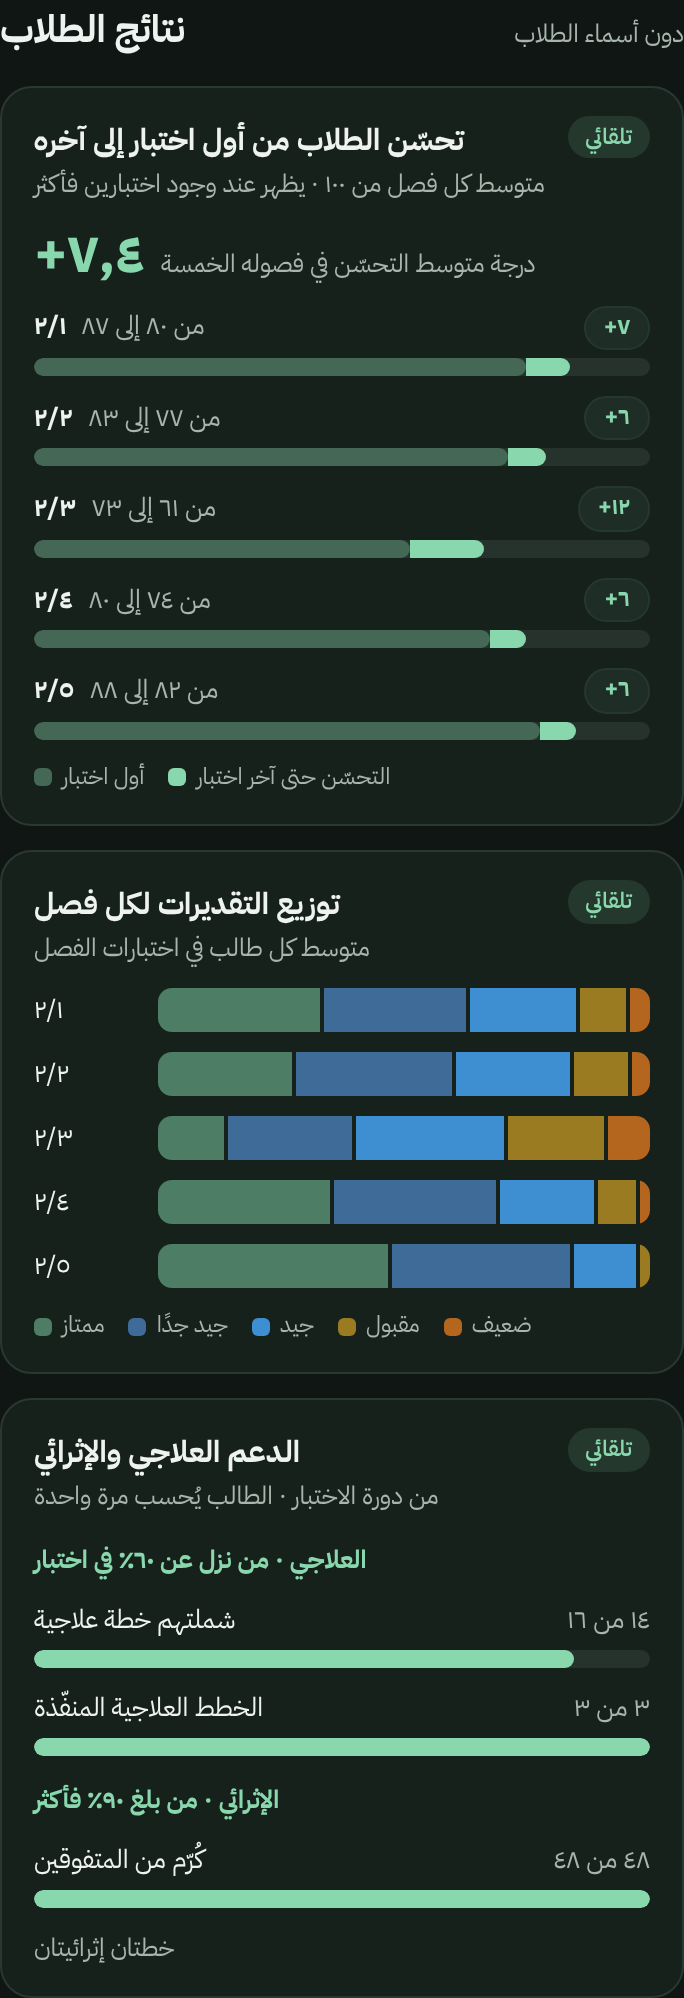
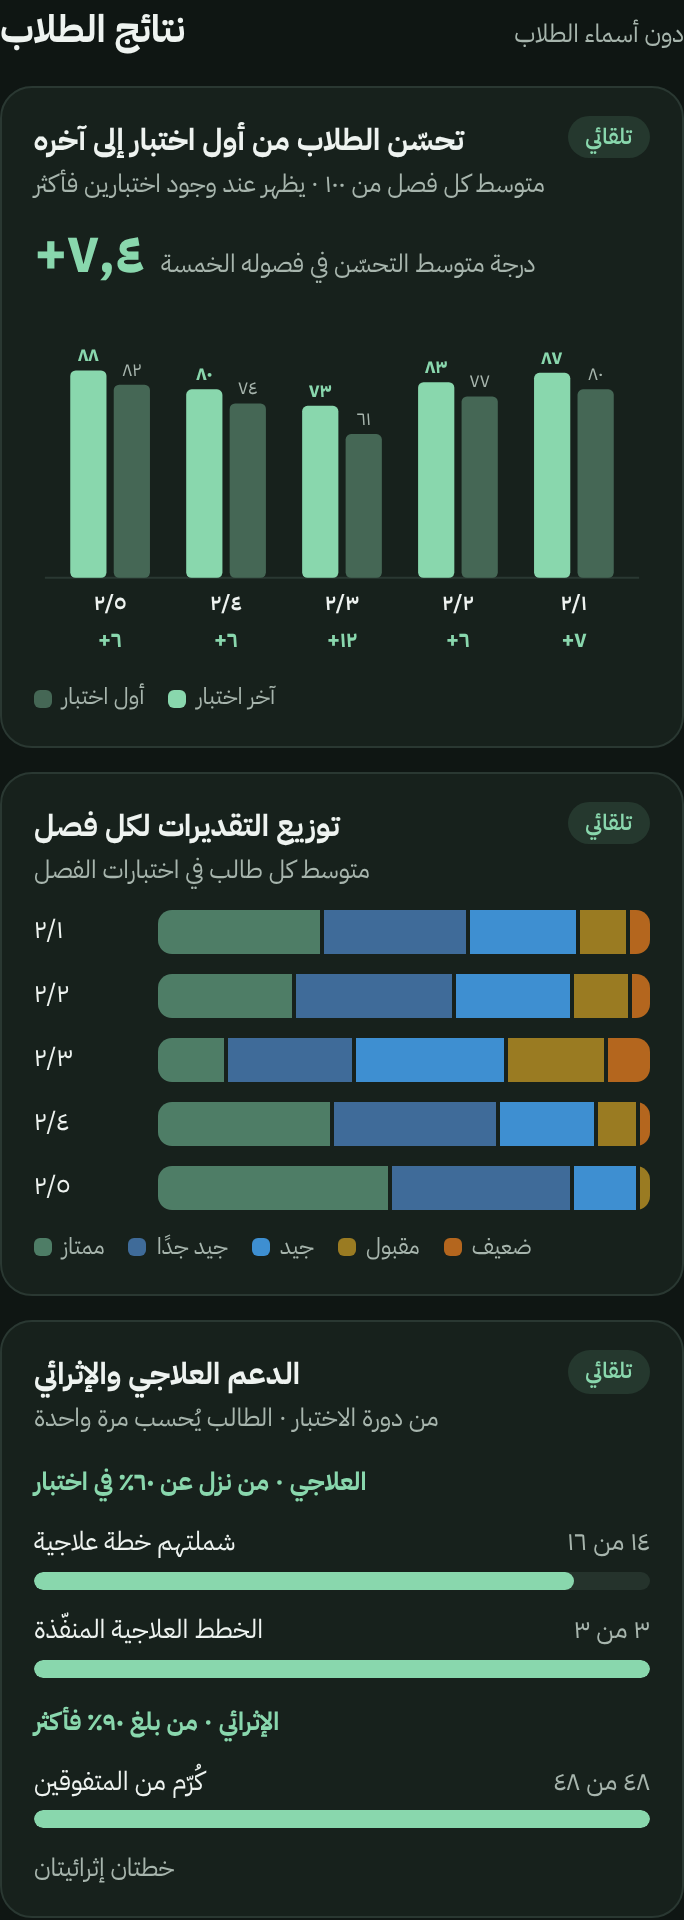
ملف المعلم الرقمي: تحسّن الطلاب بأعمدة متجاورة، وتحديث ملف الانتقال بقرارات قسم النتائج
Claude-Session: https://claude.ai/code/session_01QzqWfYFyUodUKxUMNwYvZ2

diff --git a/docs/teacher-digital-file/prototype.html b/docs/teacher-digital-file/prototype.html
@@ -215,17 +215,14 @@ section.sec { display: grid; gap: 12px; scroll-margin-top: 64px; }
 .chart .link { stroke: var(--mint); stroke-width: 4; stroke-linecap: round; }
 .chart .gain { fill: var(--deep); font-weight: 700; direction: ltr; unicode-bidi: plaintext; }
 
-/* تحسّن الطلاب: رقم إجمالي ثم سطر لكل فصل */
+/* تحسّن الطلاب: رقم إجمالي ثم عمودان لكل فصل (أول اختبار وآخره) */
 .imp-sum { display: flex; align-items: baseline; gap: 8px; flex-wrap: wrap; }
 .imp-sum .v { font-size: 28px; font-weight: 700; color: var(--deep); line-height: 1.1; direction: ltr; unicode-bidi: plaintext; }
-.imp { display: grid; gap: 10px; --base: color-mix(in srgb, var(--deep) 32%, var(--track)); }
-.imp-r { display: grid; gap: 4px; }
-.imp-t { display: flex; align-items: center; gap: 8px; font-size: 13px; }
-.imp-t span:first-of-type { flex: 1; color: var(--muted); }
-.imp-t .delta { direction: ltr; unicode-bidi: plaintext; }
-.imp-k .fill { position: absolute; inset-block: 0; inset-inline-start: 0; }
-.gainf { position: absolute; inset-block: 0; background: var(--deep); border-radius: 0 6px 6px 0; }
-.anim .imp-k .fill { animation: none; }
+#results { --base: color-mix(in srgb, var(--deep) 32%, var(--track)); }
+.cols .cb { fill: var(--base); } .cols .ca { fill: var(--deep); }
+.cols .cv { font-size: 10.5px; } .cols .cv.a { fill: var(--deep); font-weight: 700; }
+.cols .cc { fill: var(--ink); font-weight: 600; font-size: 12px; }
+.cols .cg { fill: var(--deep); font-weight: 700; font-size: 12px; direction: ltr; unicode-bidi: plaintext; }
 
 /* الخط الزمني */
 .tl { list-style: none; margin: 0; padding: 0; display: grid; gap: 0; }
@@ -549,14 +546,15 @@ section.sec { display: grid; gap: 12px; scroll-margin-top: 64px; }
     <div class="card">
       <div class="card-h"><div><h3>تحسّن الطلاب من أول اختبار إلى آخره</h3><p class="sub">متوسط كل فصل من ١٠٠ · يظهر عند وجود اختبارين فأكثر</p></div><span class="src auto">تلقائي</span></div>
       <div class="imp-sum"><span class="v num">+٧٫٤</span><span class="sub">درجة متوسط التحسّن في فصوله الخمسة</span></div>
-      <div class="imp">
-        <div class="imp-r"><div class="imp-t"><b>٢/١</b><span class="num">من ٨٠ إلى ٨٧</span><span class="delta num">+٧</span></div><div class="track imp-k"><div class="fill" style="width:80%;background:var(--base)"></div><div class="gainf" style="inset-inline-start:80%;width:7%"></div></div></div>
-        <div class="imp-r"><div class="imp-t"><b>٢/٢</b><span class="num">من ٧٧ إلى ٨٣</span><span class="delta num">+٦</span></div><div class="track imp-k"><div class="fill" style="width:77%;background:var(--base)"></div><div class="gainf" style="inset-inline-start:77%;width:6%"></div></div></div>
-        <div class="imp-r"><div class="imp-t"><b>٢/٣</b><span class="num">من ٦١ إلى ٧٣</span><span class="delta num">+١٢</span></div><div class="track imp-k"><div class="fill" style="width:61%;background:var(--base)"></div><div class="gainf" style="inset-inline-start:61%;width:12%"></div></div></div>
-        <div class="imp-r"><div class="imp-t"><b>٢/٤</b><span class="num">من ٧٤ إلى ٨٠</span><span class="delta num">+٦</span></div><div class="track imp-k"><div class="fill" style="width:74%;background:var(--base)"></div><div class="gainf" style="inset-inline-start:74%;width:6%"></div></div></div>
-        <div class="imp-r"><div class="imp-t"><b>٢/٥</b><span class="num">من ٨٢ إلى ٨٨</span><span class="delta num">+٦</span></div><div class="track imp-k"><div class="fill" style="width:82%;background:var(--base)"></div><div class="gainf" style="inset-inline-start:82%;width:6%"></div></div></div>
-        <div class="keys"><span><i style="background:var(--base)"></i>أول اختبار</span><span><i style="background:var(--deep)"></i>التحسّن حتى آخر اختبار</span></div>
-      </div>
+      <svg class="chart cols" viewBox="0 0 340 196" role="img" aria-label="متوسط كل فصل في أول اختبار وآخر اختبار">
+        <line class="axis" x1="6" y1="150" x2="334" y2="150"/>
+        <g><rect class="cb" x="300" y="46.0" width="20" height="104.0" rx="3"/><rect class="ca" x="276" y="36.9" width="20" height="113.1" rx="3"/><text class="cv" x="310" y="41.0" text-anchor="middle">٨٠</text><text class="cv a" x="286" y="31.9" text-anchor="middle">٨٧</text><text class="cc" x="298" y="168" text-anchor="middle">٢/١</text><text class="cg" x="298" y="188" text-anchor="middle">+٧</text></g>
+        <g><rect class="cb" x="236" y="49.9" width="20" height="100.1" rx="3"/><rect class="ca" x="212" y="42.1" width="20" height="107.9" rx="3"/><text class="cv" x="246" y="44.9" text-anchor="middle">٧٧</text><text class="cv a" x="222" y="37.1" text-anchor="middle">٨٣</text><text class="cc" x="234" y="168" text-anchor="middle">٢/٢</text><text class="cg" x="234" y="188" text-anchor="middle">+٦</text></g>
+        <g><rect class="cb" x="172" y="70.7" width="20" height="79.3" rx="3"/><rect class="ca" x="148" y="55.1" width="20" height="94.9" rx="3"/><text class="cv" x="182" y="65.7" text-anchor="middle">٦١</text><text class="cv a" x="158" y="50.1" text-anchor="middle">٧٣</text><text class="cc" x="170" y="168" text-anchor="middle">٢/٣</text><text class="cg" x="170" y="188" text-anchor="middle">+١٢</text></g>
+        <g><rect class="cb" x="108" y="53.8" width="20" height="96.2" rx="3"/><rect class="ca" x="84" y="46.0" width="20" height="104.0" rx="3"/><text class="cv" x="118" y="48.8" text-anchor="middle">٧٤</text><text class="cv a" x="94" y="41.0" text-anchor="middle">٨٠</text><text class="cc" x="106" y="168" text-anchor="middle">٢/٤</text><text class="cg" x="106" y="188" text-anchor="middle">+٦</text></g>
+        <g><rect class="cb" x="44" y="43.4" width="20" height="106.6" rx="3"/><rect class="ca" x="20" y="35.6" width="20" height="114.4" rx="3"/><text class="cv" x="54" y="38.4" text-anchor="middle">٨٢</text><text class="cv a" x="30" y="30.6" text-anchor="middle">٨٨</text><text class="cc" x="42" y="168" text-anchor="middle">٢/٥</text><text class="cg" x="42" y="188" text-anchor="middle">+٦</text></g>
+      </svg>
+      <div class="keys"><span><i style="background:var(--base)"></i>أول اختبار</span><span><i style="background:var(--deep)"></i>آخر اختبار</span></div>
     </div>
     <div class="grid2">
       <div class="card">

diff --git a/docs/teacher-digital-file/handoff.md b/docs/teacher-digital-file/handoff.md
@@ -1,6 +1,6 @@
 # ملخص العمل للانتقال إلى جلسة أخرى
 
-آخر تحديث: ١٥/١٠/٢٠٢٦ · الفرع: `claude/nifty-cray-ny5h4e`
+آخر تحديث: ١٥/١٠/٢٠٢٦ · الفرع: `claude/affectionate-planck-v06zvd` (مبني على `claude/nifty-cray-ny5h4e`)
 
 ## أولًا: الدفعة المفتوحة على الفرع (منفّذة ومدفوعة، لم تُدمج)
 
@@ -23,6 +23,7 @@
 ### العيّنة
 - `docs/teacher-digital-file/prototype.html`: صفحة HTML مستقلة ببيانات تجريبية، وهي المرجع البصري المعتمد. تُفتح في المتصفح مباشرة.
 - لها نسخة منشورة على رابط Artifact خاص بحساب المستخدم الأول، ولا يستطيع الحساب الآخر فتحه.
+- ونسخة على الحساب الثاني: https://claude.ai/artifact/4SQrGFCzduAiUv1GhLwZNC (تُحدَّث بنشر الملف نفسه من الجلسة التي أنشأتها، أو بتمرير الرابط من جلسة أخرى).
 
 ### القرارات العامة المعتمدة
 
@@ -92,15 +93,16 @@
 | تحضير الدروس | يرفعه المعلم |
 | سجل المتابعة | تلقائي، ويظهر فقط لمن يستخدم السجل الإلكتروني |
 
-**٧. النتائج ⏳ قيد النقاش (توقف عنده العمل)**
-- **تحسّن الطلاب من أول اختبار إلى آخره:** مخطط لكل فصل، يظهر عند وجود اختبارين فأكثر. ✅
-- **سؤال مفتوح ١:** توزيع التقديرات لكل فصل. اقتُرح إبقاؤه **مطويًا** تفصيلًا لبطاقة الأرقام الستة.
-- **سؤال مفتوح ٢:** اقتُرحت تسمية البطاقة **«الدعم العلاجي والإثرائي»**، من «دورة الاختبار» (`src/components/QuizCycle.jsx`):
-  - أقل من ٦٠٪ «يحتاج دعمًا»، والخطة العلاجية إلزامية.
-  - ٩٠٪ فأكثر «متفوق»، مع التكريم والخطة الإثرائية.
-  - تظهر لمن استخدم دورة الاختبار.
+**٧. النتائج ✅**
+- **تحسّن الطلاب من أول اختبار إلى آخره:** رقم إجمالي (متوسط التحسّن في فصوله)، ثم **أعمدة متجاورة** لكل فصل: الفاتح أول اختبار والداكن آخر اختبار، فوق كل عمود رقمه وتحت الفصل مقدار التحسّن. يظهر عند وجود اختبارين فأكثر. (جُرّب المخطط النقطي ثم الأشرطة، ولم يكونا واضحين للمستخدم.)
+- **توزيع التقديرات لكل فصل:** يبقى بطاقة في «النتائج» (لا يُطوى ولا يُنقل)، من الاختبارات فقط (متوسط كل طالب في اختبارات الفصل)، وبأسماء شرائح `gradeBands.js` وألوان بطاقة الدرجات الثابتة (آخرها «ضعيف»).
+- **الدعم العلاجي والإثرائي:** تلقائية من دورة الاختبار (`quiz_plans`، و`honored_at` وشهادات التكريم)، والطالب يُحسب مرة واحدة:
+  - العلاجي (أقل من ٦٠٪ في اختبار): شملتهم خطة علاجية «س من ص»، والخطط العلاجية المنفّذة.
+  - الإثرائي (٩٠٪ فأكثر): كُرّم من المتفوقين «س من ص»، وعدد الخطط الإثرائية إن وُجدت.
+  - تظهر لمن حلّل اختبارًا في الدورة، وتختفي بصمت لغيره.
+  - حُذف «تحسّنوا في الاختبار التالي» (يظلم المعلم إن كان التالي أصعب)، وسطر الإحالات والغياب (ليس من عمل المعلم، وبيانات حساسة).
 
-**الأقسام الباقية للنقاش بعد النتائج:** التقويم، والتطوير المهني، والإنجازات، وعناصر الأداء، والشواهد المرفوعة. اقتُرح طيّ عناصر الأداء والشواهد، ولم يُقرَّر.
+**الأقسام الباقية للنقاش (التالي: التقويم):** التقويم، والتطوير المهني، والإنجازات، وعناصر الأداء، والشواهد المرفوعة. اقتُرح طيّ عناصر الأداء والشواهد، ولم يُقرَّر.
 
 ### لوحة المعلم (يراها المعلم فقط)
 ماذا يرى الزائر (الأقسام)، ولون ملفك، واختيار جمل «قراءة في ٣٠ ثانية»، وسنة التعيين، وتقييم الأداء، ودروسك خلال صلاحية الرابط، والرمز والرابط، وسجل الزوار، وآراء الإدارة بانتظار الموافقة، وتنبيه «أضف اختبارًا».
